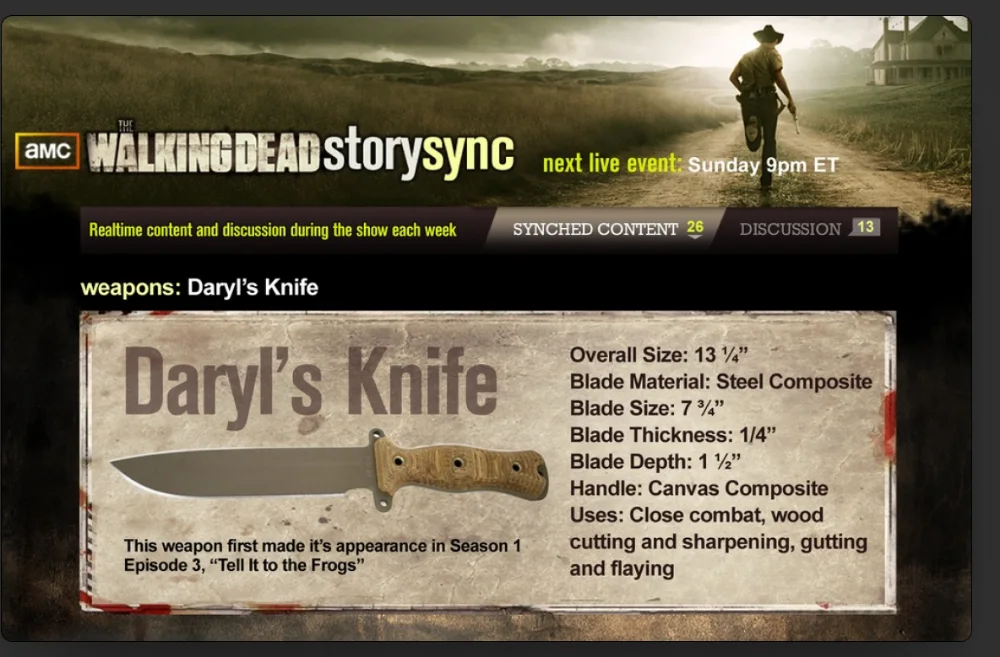
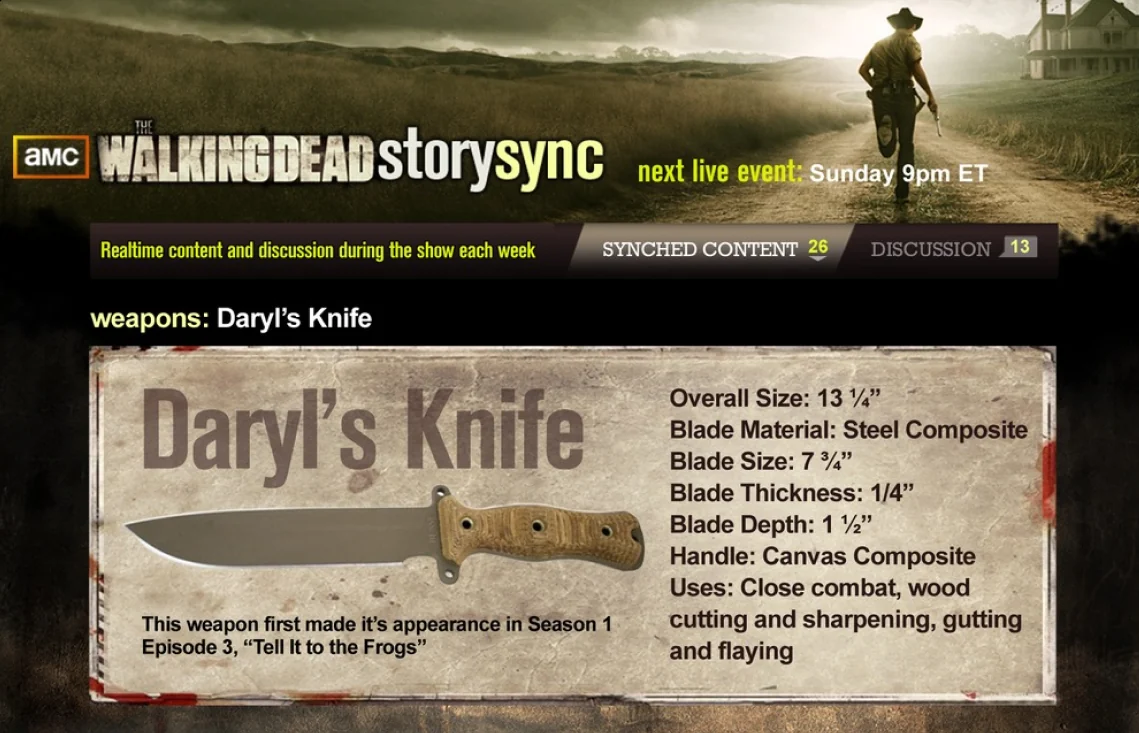
Show the full work plates and rewrite two opening questions
The Story Sync, California DMV and UltraDAO plates now show their
original images instead of crops. Story Sync is cut from the old site's
framed screenshot, the DMV is the full page view, and UltraDAO is the
square UltraPass art from the UltraDAO project. The UltraDAO plate drops
its frame label because the art shows the name.

Two questions now follow on from the one before them: "What if they
could own a piece of it?" and "What if every small business had the
best COO in their pocket?"

diff --git a/index.html b/index.html
@@ -404,9 +404,9 @@ ol { padding: 0; list-style: none; }
 <div id="dark" aria-hidden="true"></div>
 <div id="grove" aria-hidden="true"></div>
 <div id="plate" aria-hidden="true">
-  <img data-plate="sync" src="assets/images/work/story-sync.webp" alt="" width="1000" height="657" decoding="async">
-  <img data-plate="dmv" src="assets/images/work/california-dmv.webp" alt="" width="1000" height="459" decoding="async">
-  <img data-plate="ultradao" src="assets/images/work/ultradao.webp" alt="" width="560" height="720" decoding="async">
+  <img data-plate="sync" src="assets/images/work/story-sync.webp" alt="" width="1139" height="733" decoding="async">
+  <img data-plate="dmv" src="assets/images/work/california-dmv.webp" alt="" width="1200" height="810" decoding="async">
+  <img data-plate="ultradao" src="assets/images/work/ultradao.webp" alt="" width="800" height="800" decoding="async">
   <img data-plate="woodies" src="assets/images/work/woodies.webp" alt="" width="1088" height="760" decoding="async">
   <img data-plate="poster" src="assets/images/work/woodies-origin-poster.webp" alt="" width="720" height="1081" decoding="async">
   <video data-plate="assistant" src="assets/video/homebase/assistant.mp4" muted loop playsinline preload="none" width="560" height="604"></video>
@@ -454,8 +454,8 @@ ol { padding: 0; list-style: none; }
       <div class="text lines">
         <h2 class="say">Most of my work starts as a question.</h2>
         <p class="say" data-state="sync">How can fans deepen connection to their favorite IP?</p>
-        <p class="say" data-state="character">What if people could generate and own unique character IP?</p>
-        <p class="say" data-state="lift">How might AI become the COO of your small business?</p>
+        <p class="say" data-state="character">What if they could own a piece of it?</p>
+        <p class="say" data-state="lift">What if every small business had the best COO in their pocket?</p>
       </div>
     </div>
   </section>
@@ -727,10 +727,10 @@ ol { padding: 0; list-style: none; }
     homebase: { ratio: 3 / 4,   draw: "assistant" },
     end:      { ratio: 0 },
     // lines that name a piece of work show it: the frame takes the picture's shape
-    sync:      { ratio: 1000 / 657,  label: "The Walking Dead Story Sync", plate: "sync" },
+    sync:      { ratio: 1139 / 733,  label: "The Walking Dead Story Sync", plate: "sync" },
     character: { ratio: 0, hidden: true, brood: true },   // six Woodies, in place of the frame
-    dmv:       { ratio: 1000 / 459,  label: "California DMV",              plate: "dmv" },
-    ultradao:  { ratio: 560 / 720,   label: "UltraDAO",                    plate: "ultradao" },
+    dmv:       { ratio: 1200 / 810,  label: "California DMV",              plate: "dmv" },
+    ultradao:  { ratio: 1,           plate: "ultradao" },   // the art carries its own name
     woodies:   { ratio: 1088 / 760,  label: "Arden, from Woodies: Origin", plate: "woodies" },
     poster:    { ratio: 720 / 1081,  label: "Official Selection, Aesthetica Short Film Festival 2023", plate: "poster" },
     assistant: { ratio: 560 / 604,   label: "Homebase Assistant, covering a shift", plate: "assistant" },
